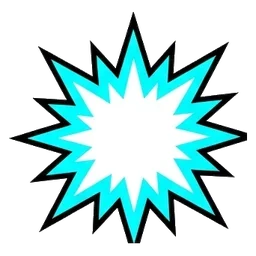
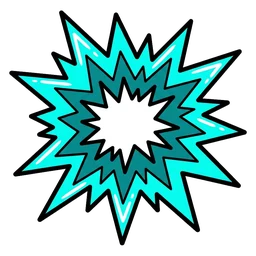
fix(cards): CHAIN/FUSE act parts repainted one image each
Andy's art rule: one component per image, never a multi-item sheet. The
flashes and the broken link are now single Gemini paintings; the
sheet-cut parts (link pair, shards, spark, smoke) are gone, and the
hover FX are rebuilt from the clean pieces only.

diff --git a/src/gameData.js b/src/gameData.js
@@ -95,15 +95,14 @@ const CHAIN_GAME = {
   artKey: 'ChainArt',
   // Andy oct24 "redesign chain and fuse game cards" — the painted, COMPONENT card: the vault backdrop, the chain-link
   // brawler, hover FX, and PARTS for its act (cardLayers/cardActs.js ACTS.chain): the lasso whips, the vault flash
-  // blows out where the chain snapped, two links fly off. Parts sit in card % (centre x / y, width).
+  // blows out where the chain snapped, two broken links fly off. Parts sit in card % (centre x / y, width).
   artLayers: {
     bg: '/cards/ch-bg.webp', hero: '/cards/ch-hero.webp', fx: '/cards/ch-fx.webp', heroY: '-9%', heroScale: 0.74,
     act: 'chain',
     parts: [
-      { id: 'flash', src: '/cards/ch-flash.webp', x: 49, y: 19, w: 62, under: true },
-      { id: 'shards', src: '/cards/ch-shards.webp', x: 50, y: 21, w: 34, under: true },
-      { id: 'link', src: '/cards/ch-link.webp', x: 40, y: 22, w: 30 },
-      { id: 'links', src: '/cards/ch-links.webp', x: 60, y: 20, w: 30 },
+      { id: 'flash', src: '/cards/ch-flash.webp', x: 49, y: 19, w: 58, under: true },
+      { id: 'link', src: '/cards/ch-link.webp', x: 40, y: 22, w: 28 },
+      { id: 'link2', src: '/cards/ch-link.webp', x: 60, y: 20, w: 24 },
     ],
   },
   name: 'CHAIN',
@@ -131,16 +130,13 @@ const FUSE_GAME = {
   id: 'fuse',
   artKey: 'FuseArt',
   // Andy oct24: the painted, COMPONENT card — the fireworks storeroom, the sneaky firecracker (shh), hover FX, and
-  // PARTS for its act (ACTS.fuse): a tiptoe two-step, the fuse FLARES and puffs smoke. The spark / shards / smoke
-  // ride the hero's frame (onHero), placed on its fuse tip.
+  // PARTS for its act (ACTS.fuse): a tiptoe two-step and the fuse FLARES. The flash rides the hero's frame (onHero),
+  // placed on its fuse tip.
   artLayers: {
     bg: '/cards/fu-bg.webp', hero: '/cards/fu-hero.webp', fx: '/cards/fu-fx.webp', heroY: '-4%', heroScale: 0.66,
     act: 'fuse',
     parts: [
       { id: 'flash', src: '/cards/fu-flash.webp', x: 72.6, y: 6, w: 44, onHero: true },
-      { id: 'spark', src: '/cards/fu-spark.webp', x: 72.6, y: 6, w: 36, onHero: true },
-      { id: 'shards', src: '/cards/fu-shards.webp', x: 76, y: 2, w: 40, onHero: true },
-      { id: 'smoke', src: '/cards/fu-smoke.webp', x: 68, y: 9, w: 24, onHero: true },
     ],
   },
   name: 'FUSE',

diff --git a/src/components/cardLayers/cardActs.js b/src/components/cardLayers/cardActs.js
@@ -35,7 +35,7 @@ export function flingFrames(dx, dy, spin) {
 // Each act is data: which layer moves, how, when. `hero` = the actor wrapper around the hero (its CSS pose stays on
 // the img inside, so the act composes with the hover lean); anything else is a part id from gameData artLayers.parts.
 export const ACTS = {
-  // CHAIN — the link WHIPS its lasso: a wind-up, the crack (the vault flash blows out behind it), two links fly off.
+  // CHAIN — the link WHIPS its lasso: a wind-up, the crack (the vault flash blows out behind it), two broken links fly off.
   chain: [
     { el: 'hero', at: 0, ms: 760, ease: 'cubic-bezier(.3,1.25,.5,1)', frames: [
       { transform: 'translate(0,0) rotate(0deg) scale(1)' },
@@ -46,10 +46,9 @@ export const ACTS = {
     ] },
     { el: 'flash', at: 260, ms: 520, ease: EASE_POP, frames: burstFrames(1.12, 24) },
     { el: 'link', at: 300, ms: 760, ease: EASE_OUT, frames: flingFrames(-170, 40, -260) },
-    { el: 'links', at: 340, ms: 780, ease: EASE_OUT, frames: flingFrames(170, 70, 240) },
-    { el: 'shards', at: 280, ms: 460, ease: EASE_POP, frames: burstFrames(1.05, -30) },
+    { el: 'link2', at: 340, ms: 780, ease: EASE_OUT, frames: flingFrames(170, 70, 240) },
   ],
-  // FUSE — the firecracker SNEAKS: a tiptoe two-step in place, the fuse FLARES (a gold flash, the spark bursts, a puff of smoke).
+  // FUSE — the firecracker SNEAKS: a tiptoe two-step in place, the fuse FLARES.
   fuse: [
     { el: 'hero', at: 0, ms: 900, ease: 'ease-in-out', frames: [
       { transform: 'translate(0,0) rotate(0deg)' },
@@ -59,10 +58,7 @@ export const ACTS = {
       { transform: 'translate(-0.5%,0) rotate(-1deg)', offset: 0.82 },
       { transform: 'translate(0,0) rotate(0deg)' },
     ] },
-    { el: 'flash', at: 330, ms: 440, ease: EASE_POP, frames: burstFrames(1, 30) },
-    { el: 'spark', at: 360, ms: 560, ease: EASE_POP, frames: burstFrames(1.25, 70) },
-    { el: 'shards', at: 420, ms: 480, ease: EASE_POP, frames: burstFrames(1.05, 20) },
-    { el: 'smoke', at: 520, ms: 900, ease: EASE_OUT, frames: flingFrames(-40, -120, -25) },
+    { el: 'flash', at: 340, ms: 560, ease: EASE_POP, frames: burstFrames(1.15, 40) },
   ],
 };
 

diff --git a/src/components/cardLayers/CardLayers.jsx b/src/components/cardLayers/CardLayers.jsx
@@ -15,6 +15,7 @@ function Part({ p, refs }) {
     <img
       ref={(el) => { refs.current[p.id] = el; }}
       className="gc-p"
+      data-part={p.id}
       src={p.src}
       alt=""
       aria-hidden="true"

diff --git a/CLAUDE.md b/CLAUDE.md
@@ -182,6 +182,6 @@ The menu has NO idle/ambient loops (the old tagline sway, section-label breathe,
   - BEAT: `html[data-beat='true'] .hp-rail .kb-rico` — a small bounce, staggered UPGRADES → GEARS → REBIRTH → STATS by delay, delay + duration ≤ 120 ms so it finishes inside the beat's 120 ms window (like title-beat-pop). Finite; will-change only while the beat attribute is on.
   - DOT NUDGE: a tile with an actionable dot nudges its icon ONCE every ~8 s (`NUDGE_EVERY_MS`, MenuNav.jsx `useDotNudge`) — ONE shared setTimeout for the rail, a finite WAAPI one-shot per dotted tile (staggered), will-change set for the run and cleared on finish; skipped on a hidden tab. No tile, no timer of its own; no CSS infinite.
   - The icons are OPTICALLY centred (`translate` by each icon's measured ink offset — the `translate` property, so it composes with the motion transforms). e2e/rail-centre.spec.js holds label / icon / number to 1px of the tile centre.
-- SANCTIONED CARD ACTS (Andy oct24 "the idea of components ABSOLUTELY saved the game card designs"): a painted mode card is LAYERS (`components/cardLayers/CardLayers.jsx`: backdrop / under-parts / hover FX / hero ACTOR / on-hero parts). CHAIN + FUSE carry PARTS (gameData `artLayers.parts`, card %) that are invisible at rest and only appear in the card's ACT (`cardActs.js` ACTS — CHAIN whips its lasso + vault flash + flying links; FUSE tiptoes + fuse flare + smoke). ONE shared setTimeout for the grid plays ONE on-screen, unlocked card every 3.4 s, each card ≤ once per 8.2 s; finite WAAPI transform/opacity, will-change only for the run, hidden tab skipped, REDUCE MOTION never started. New painted cards add an act + parts, never a CSS loop.
+- SANCTIONED CARD ACTS (Andy oct24 "the idea of components ABSOLUTELY saved the game card designs"): a painted mode card is LAYERS (`components/cardLayers/CardLayers.jsx`: backdrop / under-parts / hover FX / hero ACTOR / on-hero parts). CHAIN + FUSE carry PARTS (gameData `artLayers.parts`, card %) that are invisible at rest and only appear in the card's ACT (`cardActs.js` ACTS — CHAIN whips its lasso + vault flash + two broken links fly; FUSE tiptoes + its fuse flares). Every part is its OWN painted image (one subject per generation, judged alone — never cut from a multi-item sheet). ONE shared setTimeout for the grid plays ONE on-screen, unlocked card every 3.4 s, each card ≤ once per 8.2 s; finite WAAPI transform/opacity, will-change only for the run, hidden tab skipped, REDUCE MOTION never started. New painted cards add an act + parts, never a CSS loop.
 - DOCUMENTED FLAT-RULE EXCEPTION: .homepage-beat-glow is a pink radial-gradient pulse — an intentional, menu-frame-scoped exception to the "flat colors only, no gradients" rule. Opacity-only, beat-driven, reduced-motion-off.
 - DOCUMENTED FLAT-RULE EXCEPTION: the RARE-GEAR GLOW (`GearFx.jsx` / `.gfx*`, Andy oct9 "clash royale cards … they just feel so satisfying") — a tier-colour aura (+ sparkle motes) behind EVERY EPIC+ gear card, owned or locked (Andy oct9 22:56 "the glow should be everywhere then (not just whats found)" — a locked tile glows its tier colour so players see what they're chasing): the YOUR GEAR slot, the EQUIP screen, the INDEX tiles, the GEAR SHEET and the ROLL screen (reel cells, reveal card, stats-extension plate) ONLY. The blur is BAKED into `public/fx/gear-aura*.png` (a 9-slice border-image — never a CSS filter / blurred box-shadow); motion is finite WAAPI opacity (aura) / transform+opacity (motes) on one shared scheduler that staggers hosts (≤1 starts a breath per 700 ms tick, each host ≤ once per 4.2 s, off-screen skipped); the reel's passing cells are a still aura (`live={false}`); reduced motion = still aura, no motes. THE RARITY LADDER (gear UI v3, Andy oct9 "mythic and secret should be even greater"): EPIC aura + 2 motes < LEGENDARY wider aura + 4 motes < MYTHIC two auras (pink + cyan) + 8 big two-colour motes + the `public/fx/frame-mythic.svg` frame variant << SECRET three baked rainbow colourings swapped each breath + a baked RGB-split GLITCH plate (`gear-aura-secret-glitch.png`, a transform jitter) + an ORBITING ring of 8 rainbow motes (one finite lap per breath; its ellipse measured once on mount) + the `frame-secret.svg` variant; the rarity word is a TierBanner (markCard/TierBanner.jsx, inline-SVG ribbon) on the sheet and the reveal, and the card's rarity plate climbs the same ladder (CardFrame). THE YOUR GEAR SHOWCASE (gear UI v3, Andy oct9 "make the menu 'your gear' animation even more attractive (for legendary ones)") is part of this exception and is the menu's ONE sanctioned showcase (the MENU MOTION LAW otherwise holds): `gearShowcase.js` (lazy) runs once every 6.5–8 s on the worn EPIC+ gear — LEGENDARY+: aura flare + radial mote burst (GearFx `gfx:flare`), a flat tier-colour face flash, the reveal's burst-ring asset behind the glyph, the glyph pop (secret: a full spin), the sheen sweep, one stat-number punch; EPIC: a lighter glyph pop + number punch only. One setTimeout chain per slot, finite WAAPI transform/opacity one-shots, will-change only for the run, hidden tab skipped; reduced motion = never started (static slot). Do not spread it to other UI.
